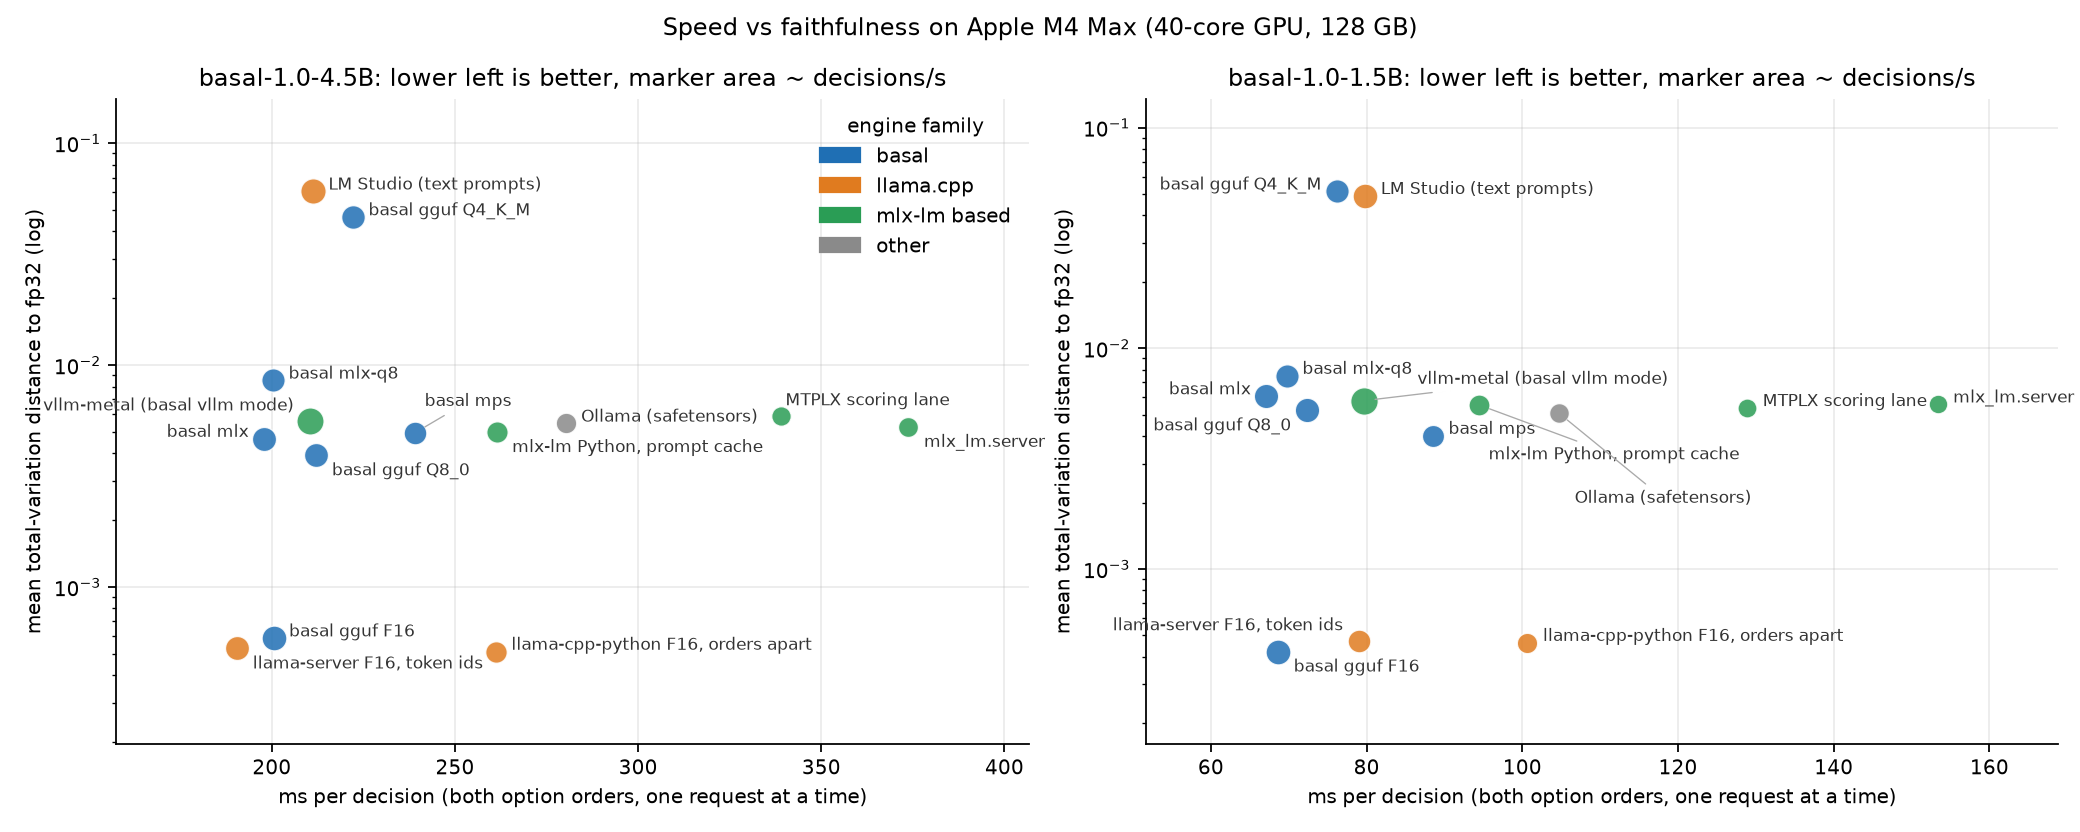
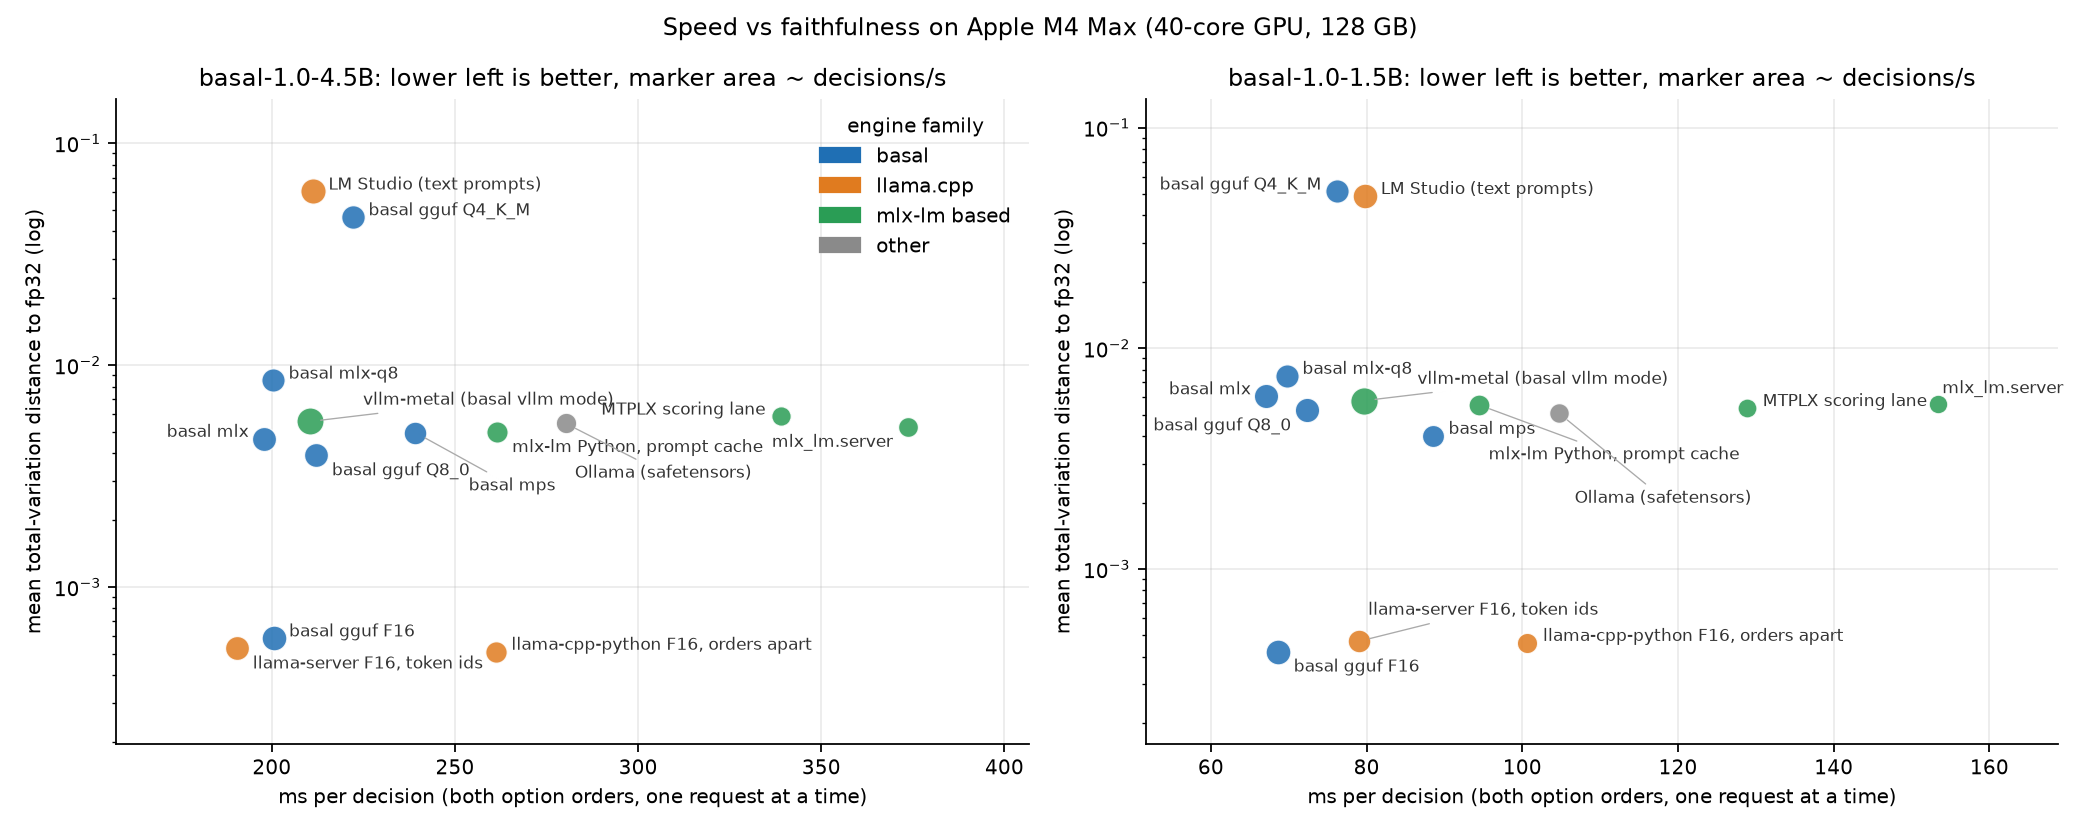
docs: plots mark the published checkpoints; memory plot covers both models' published files

diff --git a/docs/figures/make_figures.py b/docs/figures/make_figures.py
@@ -38,6 +38,7 @@ def place_labels(ax, points):
     the markers."""
     from matplotlib.transforms import Bbox
     renderer = ax.figure.canvas.get_renderer()
+    frame = ax.get_window_extent(renderer)
     placed = [ax.get_legend().get_window_extent(renderer)] if ax.get_legend() else []
     marks = []
     for x, y, _ in points:
@@ -53,7 +54,8 @@ def place_labels(ax, points):
                             else None)
             t.update_positions(renderer)
             box = Text.get_window_extent(t, renderer).expanded(1.03, 1.25)  # the text only, not the leader line
-            if not any(box.overlaps(b) for b in placed if b is not marks[j]):
+            inside = frame.x0 <= box.x0 and box.x1 <= frame.x1 and frame.y0 <= box.y0 and box.y1 <= frame.y1
+            if inside and not any(box.overlaps(b) for b in placed if b is not marks[j]):
                 placed.append(box)
                 break
             t.remove()
@@ -231,22 +233,35 @@ def gold_prob_heatmap():
     fig.savefig(HERE / "apple_gold_prob_heatmap.png")
 
 
+# checkpoints published on Hugging Face (README, "Ready-made Apple Silicon checkpoints"); keys of D["formats"]
+PUBLISHED = {"basal-mlx", "basal-gguf:F16", "basal-gguf:Q8_0", "basal-gguf:Q4_K_M", "mlx-q8", "mlx-oQ6e"}
+
+
 def memory_vs_fidelity():
-    fig, ax = plt.subplots(figsize=(6.8, 4.3))
-    fmt = {"MLX": COLORS["basal"], "GGUF (llama.cpp)": COLORS["llama.cpp"]}
-    for p in D["memory_4.5B"]:
-        c = fmt["MLX"] if p["label"].startswith("mlx") else fmt["GGUF (llama.cpp)"]
-        ax.scatter(p["gb"], max(p["tv_mean"], TV_FLOOR), s=60, color=c, zorder=3)
-        ax.annotate(f"{p['label']} · {p['ms']:.0f} ms", (p["gb"], max(p["tv_mean"], TV_FLOOR)), xytext=(6, 2),
-                    textcoords="offset points", fontsize=8)
-    ax.legend(handles=[Patch(color=c, label=k) for k, c in fmt.items()], frameon=False, loc="upper right")
-    ax.set_yscale("log")
-    ax.set_xlim(2, 11.5)
-    ax.set_xlabel("weights in memory (GB; GGUF: file size)")
-    ax.set_ylabel("mean TV distance to fp32 (log)")
-    ax.set_title("basal-1.0-4.5B on Apple Silicon: memory vs faithfulness")
-    ax.grid(alpha=0.25)
+    """The published checkpoints of both models: memory vs faithfulness, latency in the labels."""
+    fig, axes = plt.subplots(1, 2, figsize=(13, 4.8))
+    for ax, model in zip(axes, ("1.5B", "4.5B")):
+        rows = [r for r in D["formats"][model] if r["key"] in PUBLISHED]
+        for r in rows:
+            ax.scatter(r["gb"], max(r["tv_mean"], TV_FLOOR), s=70, color=FORMAT_COLORS[r["family"]], zorder=3,
+                       edgecolor="white", linewidth=0.6)
+        ax.set_yscale("log")
+        ax.margins(x=0.2, y=0.25)
+        ax.set_xlabel("weights (GB)")
+        ax.set_ylabel("mean TV distance to fp32 (log)")
+        ax.set_title(f"basal-1.0-{model}")
+        ax.grid(alpha=0.25)
+        if model == "1.5B":
+            format_legend(ax, families={r["family"] for r in rows}, loc="upper right", fontsize=8)
+    fig.suptitle("Published Apple Silicon checkpoints: memory vs faithfulness (labels: ms per decision)",
+                 fontsize=11)
     fig.tight_layout()
+    fig.canvas.draw()
+    for ax, model in zip(axes, ("1.5B", "4.5B")):
+        rows = [r for r in D["formats"][model] if r["key"] in PUBLISHED]
+        place_labels(ax, [(r["gb"], max(r["tv_mean"], TV_FLOOR),
+                           f"{r['label']} · {r['ms']:.0f} ms")
+                          for r in sorted(rows, key=lambda r: r["gb"])])
     fig.savefig(HERE / "apple_memory_vs_fidelity.png")
 
 
@@ -254,8 +269,12 @@ FORMAT_COLORS = {"bf16": "#222222", "MLX affine": "#1f6fb4", "MLX microscaling":
                  "GGUF": "#e07b1f"}
 
 
-def format_legend(ax, **kw):
-    ax.legend(handles=[Patch(color=c, label=f) for f, c in FORMAT_COLORS.items()], title="format", frameon=False, **kw)
+def format_legend(ax, published=False, families=None, **kw):
+    handles = [Patch(color=c, label=f) for f, c in FORMAT_COLORS.items() if families is None or f in families]
+    if published:
+        handles.append(plt.Line2D([], [], marker="o", color="w", markerfacecolor="#ccc", markeredgecolor="black",
+                                  markeredgewidth=1.6, markersize=9, label="published on Hugging Face"))
+    ax.legend(handles=handles, title="format", frameon=False, **kw)
 
 
 def formats_size_vs_fidelity():
@@ -263,8 +282,9 @@ def formats_size_vs_fidelity():
     for ax, model in zip(axes, ("1.5B", "4.5B")):
         rows = D["formats"][model]
         for r in rows:
-            ax.scatter(r["gb"], max(r["tv_mean"], TV_FLOOR), s=55, color=FORMAT_COLORS[r["family"]], zorder=3,
-                       edgecolor="white", linewidth=0.6)
+            pub = r["key"] in PUBLISHED
+            ax.scatter(r["gb"], max(r["tv_mean"], TV_FLOOR), s=90 if pub else 55, color=FORMAT_COLORS[r["family"]],
+                       zorder=4 if pub else 3, edgecolor="black" if pub else "white", linewidth=1.6 if pub else 0.6)
         ax.set_yscale("log")
         ax.margins(x=0.15, y=0.2)
         ax.set_xlabel("weights on disk (GB)")
@@ -272,7 +292,7 @@ def formats_size_vs_fidelity():
         ax.set_title(f"basal-1.0-{model}: {len(rows)} formats (all ~same speed, see table)")
         ax.grid(alpha=0.25, zorder=0)
         if model == "1.5B":
-            format_legend(ax, loc="upper right")
+            format_legend(ax, published=True, loc="upper right")
     fig.suptitle(f"Quantised formats on {D['machine']}: size vs faithfulness (lower left is better)", fontsize=11)
     fig.tight_layout()
     fig.canvas.draw()

diff --git a/README.md b/README.md
@@ -164,6 +164,8 @@ The MLX repositories include `CALIBRATION.json`, so `--model pawelkiszczak/basal
 needs; for GGUF, `--model` stays the original repository (tokenizer and calibration) and `--gguf` points to the
 downloaded file ([docs/GGUF.md](docs/GGUF.md)). 4-bit formats change some decisions and are not published.
 
+![Published Apple Silicon checkpoints: memory vs faithfulness](docs/figures/apple_memory_vs_fidelity.png)
+
 - `mlx` (default when MLX is installed) and `mps` (PyTorch) both use the shared prefix and batching of `fast` and
   start in about a second (nothing is compiled). Agreement with the fp32 reference on the 44 bundled examples: 1.000
   for the 4.5B in `mlx` and `mlx-q8`, 0.977 (one item) for `mps` and for the 1.5B.

diff --git a/docs/GGUF.md b/docs/GGUF.md
@@ -73,7 +73,7 @@ call; *TV*: total-variation distance between the averaged two-order probabilitie
 - **Q4_K_M** changes about 5% of the decisions and moves single probabilities by up to 0.3–0.45: not recommended.
 - Weight quantisation does not make prefill faster here: Apple GPUs are compute-bound on these prompts.
 
-![Memory vs faithfulness of the MLX and GGUF variants](figures/apple_memory_vs_fidelity.png)
+![Published Apple Silicon checkpoints: memory vs faithfulness](figures/apple_memory_vs_fidelity.png)
 
 Per-item deviations of every variant and of other engines:
 [HARDWARE.md, inference engines on Apple Silicon](HARDWARE.md#inference-engines-on-apple-silicon).

diff --git a/docs/HARDWARE.md b/docs/HARDWARE.md
@@ -214,7 +214,7 @@ cool-down; *TV*: mean / max total-variation distance to fp32, *changed*: decisio
 | oMLX oQ3e | 0.74 | 69 | 0.1565 / 0.453 | 7 | – | – | – | – |
 | MLX mxfp4 | 0.85 | 71 | 0.2029 / 0.796 | 9 | 2.53 | 204 | 0.1003 / 0.529 | 4 |
 
-![Size vs faithfulness of the quantised formats](figures/apple_formats_size_vs_fidelity.png)
+![Size vs faithfulness of the quantised formats (ringed: published checkpoints)](figures/apple_formats_size_vs_fidelity.png)
 
 - **No format is faster**: the Apple GPU is compute-bound on these prompts, so every format of a model runs within
   15% of bf16. Quantisation only saves memory.
